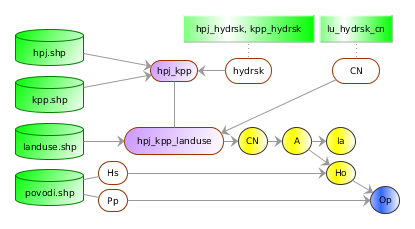
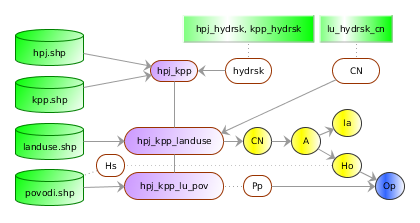
some amendments: schema

diff --git a/hydrologie/scs-cn.rst b/hydrologie/scs-cn.rst
@@ -101,9 +101,7 @@ Vstupné dáta
 Navrhovaný postup:
 ------------------
 
-1. príprava potrebných dát pre výpočet v prostredí GIS (rastrová vrstva s kódmi 
-   :math:`CN`, raster s hodnotami :math:`H_s` a raster s výmerou :math:`P_p` 
-   pre elementárne plochy v :math:`m^2`),
+1. vytvorenie vektorovej vrstvy elementárnych plôch s číslom odtokovej krivky :math:`CN` ()
 2. výpočet parametra :math:`A`, ktorý je funkciou :math:`CN`,
 3. výpočet parametra :math:`I_a`, ktorý je funkciou :math:`A`,
 4. výpočet parametra :math:`H_o`, ktorý je funkciou :math:`H_s` a :math:`A`,
@@ -315,8 +313,8 @@ interaktívne.
 
 Na prekrývanie, resp. nájdenie prieniku vektorových vrstiev slúži modul
 |v.overlay.and| :sup:`v.overlay.and`, viď. 
-:menuselection:`Vektor --> Prostorová analýza --> Překrytí`(:num:`#v-overlay-and`). 
-Výsledný prienik nazveme :map:`hpj_kpp_land`.
+:menuselection:`Vektor --> Prostorová analýza --> Překrytí` (:num:`#v-overlay-and`). 
+Výsledný prienik nazveme :map:`hpj_kpp_landuse`.
 
 .. _v-overlay-and:
 
